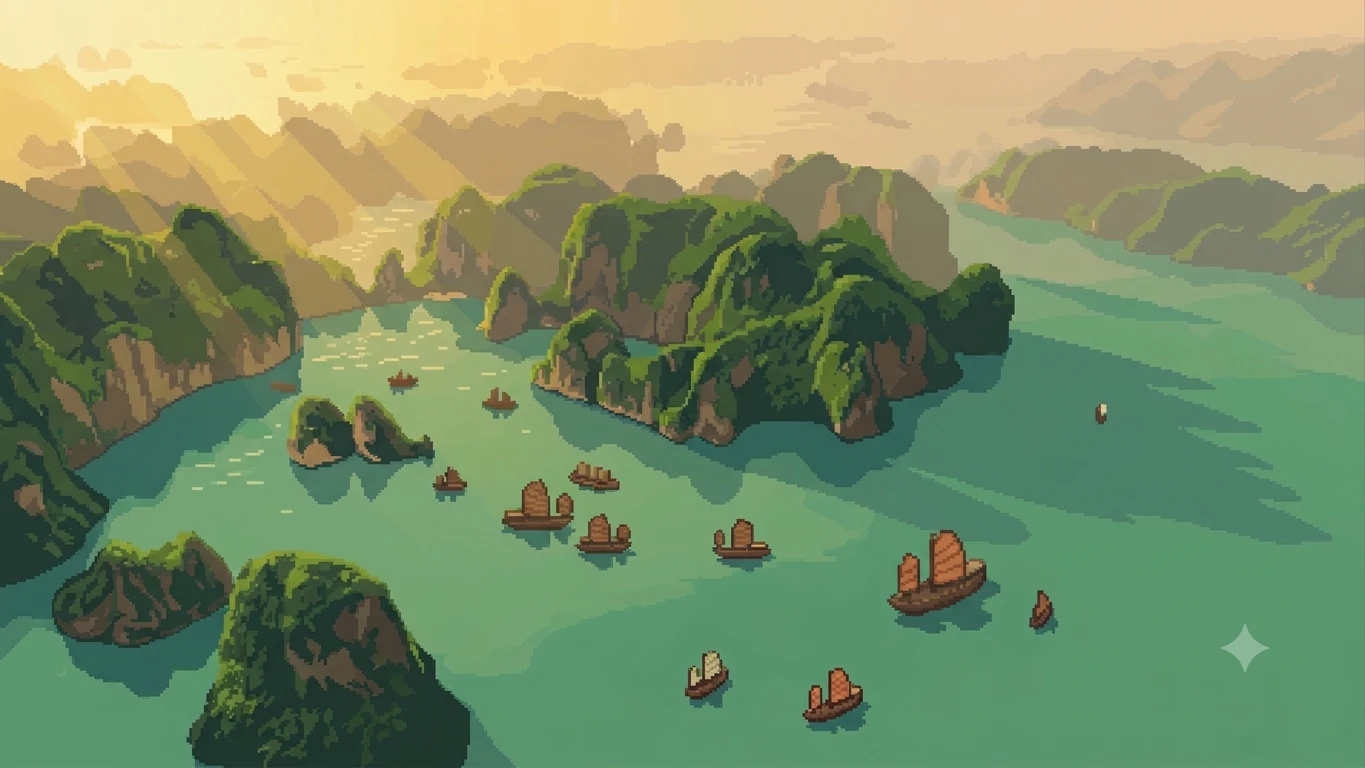
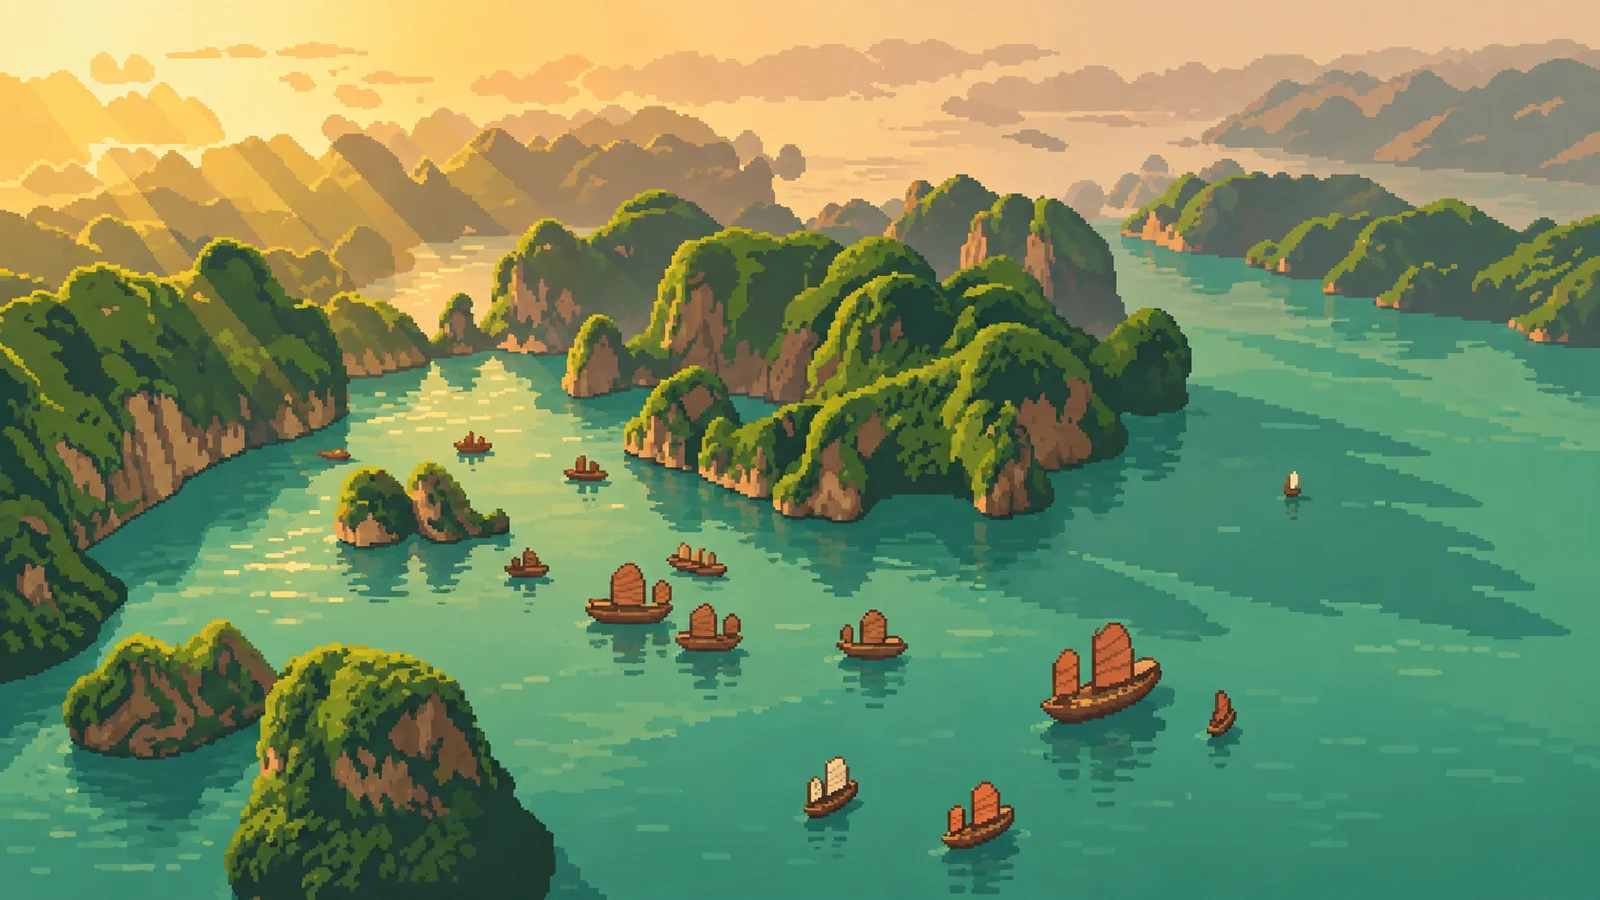
v0.15.0: difficulty and scenery selection in the main menu; 8 painted backgrounds
- main menu card: Độ khó Dễ (old bot) / Thường (new bot) / Khó (new bot +2 gold per round)
  and Phong cảnh (random or one of 8, thumbnail picker); saved in settings, title screen
  previews the choice, the match uses it
- 8 backgrounds from the PO's Drive folder as 1600×900 webp + thumbnails (Hạ Long updated)
- tools/difficulty.ts: computer win rate Dễ 2%, Thường 52%, Khó 64% (100 matches each)
- bottom dev buttons no longer overlap

Claude-Session: https://claude.ai/code/session_017dy2rzCxaDbFybrTfXSqJB

diff --git a/game/src/scenes/TitleScene.ts b/game/src/scenes/TitleScene.ts
@@ -1,25 +1,28 @@
 import Phaser from "phaser";
-import { VERSION } from "../core/config";
+import { HARD_BOT_GOLD, VERSION, type Difficulty } from "../core/config";
 import { saveSettings, settings, t, type Lang } from "../core/i18n";
-import { SCREEN_H, SCREEN_W } from "../core/layout";
+import { pickScenery, SCENERY, sceneryPath, sceneryThumb, SCREEN_H, SCREEN_W } from "../core/layout";
 import { button, coverImage, CREAM, FONT_LOGO, FONT_UI, GOLD, toast, WOOD } from "../ui/widgets";
 
-const TITLE_BG = "backgrounds/painted/bg_ha_long.webp";
-
-/** Start screen: Hạ Long background, logo, main menu, language switch. */
+/** Start screen: painted background (the chosen scenery), logo, main menu, match setup (difficulty + scenery), language switch. */
 export class TitleScene extends Phaser.Scene {
   constructor() {
     super("title");
   }
 
+  private bg?: Phaser.GameObjects.Image;
+  /** the scenery on screen (for "random": one picked when the menu opens) */
+  private shownKey = "";
+
   preload() {
-    this.load.image("title-bg", TITLE_BG);
+    this.shownKey = pickScenery(settings.background);
+    this.load.image(`bg:${this.shownKey}`, sceneryPath(this.shownKey));
+    for (const s of SCENERY) this.load.image(`thumb:${s.key}`, sceneryThumb(s.key));
   }
 
   create() {
-    const bg = coverImage(this, "title-bg");
-    // slow drift over the bay
-    this.tweens.add({ targets: bg, scale: bg.scale * 1.06, x: bg.x - 20, duration: 24000, yoyo: true, repeat: -1, ease: "Sine.easeInOut" });
+    this.bg = undefined;
+    this.showBackground(this.shownKey);
 
     // darken the centre column a little so the menu reads well
     const shade = this.add.graphics();
@@ -60,11 +63,90 @@ export class TitleScene extends Phaser.Scene {
     }
 
     this.languageSwitch();
-    button(this, 120, SCREEN_H - 40, 210, 42, "🎬 Xưởng hoạt ảnh", () => this.scene.start("animlab", { code: "V001" }));
-    button(this, 345, SCREEN_H - 40, 220, 42, "✨ Hiệu ứng trạng thái", () => this.scene.start("auralab"));
-    button(this, 590, SCREEN_H - 40, 250, 42, "🐉 Mô phỏng Ấn Thống Nhất", () => this.scene.start("match", { demo: true }));
+    this.matchSetup();
+    button(this, 132, SCREEN_H - 40, 240, 42, "🎬 Xưởng hoạt ảnh", () => this.scene.start("animlab", { code: "V001" }));
+    button(this, 392, SCREEN_H - 40, 264, 42, "✨ Hiệu ứng trạng thái", () => this.scene.start("auralab"));
+    button(this, 682, SCREEN_H - 40, 300, 42, "🐉 Mô phỏng Ấn Thống Nhất", () => this.scene.start("match", { demo: true }));
     this.add.text(SCREEN_W - 14, SCREEN_H - 12, `${t("alphaNote")} · v${VERSION}`, { fontFamily: FONT_UI, fontSize: "14px", color: CREAM })
       .setOrigin(1, 1).setShadow(1, 1, "#000", 3);
+  }
+
+  /** background with a slow drift; the painting is loaded on demand when the scenery changes */
+  private showBackground(key: string) {
+    const tex = `bg:${key}`;
+    const put = () => {
+      const old = this.bg;
+      const bg = coverImage(this, tex).setDepth(-10).setAlpha(old ? 0 : 1);
+      this.bg = bg;
+      this.tweens.add({ targets: bg, scale: bg.scale * 1.06, x: bg.x - 20, duration: 24000, yoyo: true, repeat: -1, ease: "Sine.easeInOut" });
+      if (old) this.tweens.add({ targets: bg, alpha: 1, duration: 350, onComplete: () => old.destroy() });
+    };
+    this.shownKey = key;
+    if (this.textures.exists(tex)) return put();
+    this.load.image(tex, sceneryPath(key));
+    this.load.once(Phaser.Loader.Events.COMPLETE, () => { if (this.sys.isActive() && this.shownKey === key) put(); });
+    this.load.start();
+  }
+
+  /** right-hand card: difficulty (Dễ / Thường / Khó) and scenery (◀ thumbnail ▶), both saved in the settings */
+  private matchSetup() {
+    const cx = 1062, w = 330, top = 292, h = 352;
+    const g = this.add.graphics();
+    g.fillStyle(WOOD, 0.88).fillRoundedRect(cx - w / 2, top, w, h, 16);
+    g.lineStyle(2, GOLD, 0.85).strokeRoundedRect(cx - w / 2, top, w, h, 16);
+    this.add.text(cx, top + 22, t("matchSetup"), { fontFamily: FONT_LOGO, fontSize: "24px", color: "#ffe6a3", fontStyle: "800" }).setOrigin(0.5);
+
+    // difficulty: three segments
+    this.add.text(cx - w / 2 + 18, top + 50, t("difficulty"), { fontFamily: FONT_UI, fontSize: "15px", color: CREAM, fontStyle: "bold" });
+    const levels: [Difficulty, string][] = [["easy", t("diffEasy")], ["normal", t("diffNormal")], ["hard", t("diffHard")]];
+    const segW = 96, segH = 38, sy = top + 74, sx0 = cx - (segW * 3 + 8) / 2;
+    const seg = this.add.graphics();
+    const labels = levels.map(([, label], i) =>
+      this.add.text(sx0 + i * (segW + 4) + segW / 2, sy + segH / 2, label, { fontFamily: FONT_UI, fontSize: "17px", fontStyle: "bold", color: CREAM }).setOrigin(0.5));
+    const note = this.add.text(cx, sy + segH + 10, "", { fontFamily: FONT_UI, fontSize: "13px", color: CREAM, align: "center", wordWrap: { width: w - 30 } }).setOrigin(0.5, 0);
+    const drawDiff = () => {
+      seg.clear();
+      levels.forEach(([lv], i) => {
+        const on = settings.difficulty === lv;
+        seg.fillStyle(on ? GOLD : 0x4a3424, 1).fillRoundedRect(sx0 + i * (segW + 4), sy, segW, segH, 10);
+        labels[i].setColor(on ? "#2b1d14" : CREAM);
+      });
+      note.setText(settings.difficulty === "easy" ? t("diffEasyNote") : settings.difficulty === "hard" ? t("diffHardNote")(HARD_BOT_GOLD) : t("diffNormalNote"));
+    };
+    levels.forEach(([lv], i) => this.add.zone(sx0 + i * (segW + 4) + segW / 2, sy + segH / 2, segW, segH).setInteractive({ useHandCursor: true })
+      .on("pointerup", () => { settings.difficulty = lv; saveSettings(settings); drawDiff(); }));
+    drawDiff();
+
+    // scenery: ◀ thumbnail ▶ + name
+    this.add.text(cx - w / 2 + 18, top + 160, t("scenery"), { fontFamily: FONT_UI, fontSize: "15px", color: CREAM, fontStyle: "bold" });
+    const choices = ["random", ...SCENERY.map((s) => s.key)];
+    const ty = top + 184, tw = 224, th = 126;
+    const frame = this.add.graphics();
+    frame.lineStyle(3, GOLD, 1).strokeRoundedRect(cx - tw / 2 - 3, ty - 3, tw + 6, th + 6, 8);
+    const thumb = this.add.image(cx, ty + th / 2, `thumb:${SCENERY[0].key}`).setDisplaySize(tw, th);
+    const dice = this.add.text(cx, ty + th / 2, "?", { fontFamily: FONT_LOGO, fontSize: "64px", color: "#ffe6a3", fontStyle: "800" }).setOrigin(0.5).setStroke("#2b1d14", 8);
+    const name = this.add.text(cx, ty + th + 10, "", { fontFamily: FONT_UI, fontSize: "16px", color: "#ffe6a3", fontStyle: "bold" }).setOrigin(0.5, 0);
+    const drawScenery = () => {
+      const random = settings.background === "random" || !SCENERY.some((s) => s.key === settings.background);
+      const key = random ? this.shownKey : settings.background;
+      thumb.setTexture(`thumb:${key}`).setDisplaySize(tw, th).setTint(random ? 0x777777 : 0xffffff);
+      dice.setVisible(random);
+      name.setText(random ? t("sceneryRandom") : SCENERY.find((s) => s.key === key)!.name);
+    };
+    const step = (d: number) => {
+      const i = Math.max(0, choices.indexOf(settings.background));
+      settings.background = choices[(i + d + choices.length) % choices.length];
+      saveSettings(settings);
+      if (settings.background !== "random") this.showBackground(settings.background);
+      drawScenery();
+    };
+    for (const [dx, label, d] of [[-tw / 2 - 26, "◀", -1], [tw / 2 + 26, "▶", 1]] as [number, string, number][]) {
+      const b = this.add.text(cx + dx, ty + th / 2, label, { fontFamily: FONT_UI, fontSize: "26px", color: "#ffe6a3" }).setOrigin(0.5)
+        .setInteractive({ useHandCursor: true }).on("pointerup", () => step(d));
+      b.on("pointerover", () => b.setColor("#ffffff")).on("pointerout", () => b.setColor("#ffe6a3"));
+    }
+    thumb.setInteractive({ useHandCursor: true }).on("pointerup", () => step(1));
+    drawScenery();
   }
 
   /** VI | EN pill, top-right */

diff --git a/game/src/core/i18n.ts b/game/src/core/i18n.ts
@@ -1,5 +1,7 @@
 // UI text in Vietnamese and English. Vietnamese is the main language; English is for a later build.
 
+import type { Difficulty } from "./config";
+
 export type Lang = "vi" | "en";
 
 const STRINGS = {
@@ -66,6 +68,16 @@ const STRINGS = {
     xpToGo: (n: number, l: number) => `còn ${n} XP lên cấp ${l}`,
     lockedOn: "Đã khóa cửa hàng – giữ nguyên sang vòng sau",
     lockedOff: "Đã mở khóa cửa hàng",
+    matchSetup: "Trận đấu",
+    difficulty: "Độ khó",
+    diffEasy: "Dễ",
+    diffNormal: "Thường",
+    diffHard: "Khó",
+    diffEasyNote: "Máy mua và xếp quân đơn giản",
+    diffNormalNote: "Máy chơi cùng luật, theo tộc hệ và ★",
+    diffHardNote: (g: number) => `Như Thường, máy được thêm ${g} vàng mỗi vòng`,
+    scenery: "Phong cảnh",
+    sceneryRandom: "Ngẫu nhiên",
   },
   en: {
     tagline: "Legends of the Wild",
@@ -130,14 +142,30 @@ const STRINGS = {
     xpToGo: (n: number, l: number) => `${n} XP to level ${l}`,
     lockedOn: "Shop locked – kept for next round",
     lockedOff: "Shop unlocked",
+    matchSetup: "Match",
+    difficulty: "Difficulty",
+    diffEasy: "Easy",
+    diffNormal: "Normal",
+    diffHard: "Hard",
+    diffEasyNote: "The computer buys and places simply",
+    diffNormalNote: "Same rules as you, builds synergies and ★",
+    diffHardNote: (g: number) => `Like Normal, the computer gets +${g} gold per round`,
+    scenery: "Scenery",
+    sceneryRandom: "Random",
   },
 };
 
 export type StringKey = keyof typeof STRINGS.vi;
 
 /** small persistent settings (per device). Storage may be blocked (private mode) – then defaults are used. */
-export interface Settings { lang: Lang; sound: boolean; speed: 1 | 2; relaxed: boolean }
-const DEFAULTS: Settings = { lang: "vi", sound: true, speed: 1, relaxed: true };
+export interface Settings {
+  lang: Lang; sound: boolean; speed: 1 | 2; relaxed: boolean;
+  /** computer opponent: Dễ / Thường / Khó */
+  difficulty: Difficulty;
+  /** battle + title background: a BACKGROUNDS key or "random" */
+  background: string;
+}
+const DEFAULTS: Settings = { lang: "vi", sound: true, speed: 1, relaxed: true, difficulty: "normal", background: "random" };
 const KEY = "vieani.settings";
 
 export function loadSettings(): Settings {

diff --git a/game/src/core/match.ts b/game/src/core/match.ts
@@ -67,6 +67,8 @@ export class Match {
   readonly players: [PlayerState, PlayerState];
   readonly species: Species[];
   round = 1;
+  /** how the computer opponent plays (main menu setting) */
+  difficulty: C.Difficulty = "normal";
   private rng: Rng;
   private nextUid = 1;
 
@@ -329,9 +331,10 @@ export class Match {
     }
   }
 
-  /** the computer's turn: the smarter bot (botAI.ts) unless "easy" (the original simple bot) */
-  botTurn(p: PlayerState = this.bot, level: "easy" | "smart" = "smart") {
-    if (level === "smart") return smartTurn(this, p);
+  /** the computer's turn: the smarter bot (botAI.ts), or the original simple bot on Dễ (or when asked for "easy") */
+  botTurn(p: PlayerState = this.bot, level?: "easy" | "smart") {
+    const lv = level ?? (p === this.bot && this.difficulty === "easy" ? "easy" : "smart");
+    if (lv === "smart") return smartTurn(this, p);
     const reserve = this.round >= 5 ? 10 : 0; // keep 10 gold for interest from round 5
     const owned = () => new Set(p.team.units().map((u) => u.speciesId));
     for (let rolls = 0; rolls < 4; rolls++) {
@@ -463,7 +466,9 @@ export class Match {
         streak: C.STREAK_BONUS.filter(([n]) => Math.abs(p.streak) >= n).reduce((m, [, g]) => Math.max(m, g), 0),
         result: won ? C.WIN_BONUS : C.LOSS_BONUS,
       };
-      p.gold += inc.base + inc.interest + inc.streak + inc.result + inc.items;
+      // Khó: the computer gets a little extra gold each round (said so in the menu)
+      const handicap = i === 1 && this.difficulty === "hard" ? C.HARD_BOT_GOLD : 0;
+      p.gold += inc.base + inc.interest + inc.streak + inc.result + inc.items + handicap;
       const up = this.addXp(p, C.XP_PER_ROUND);
       if (i === 0) { income = inc; levelUp = up; }
     });

diff --git a/game/src/core/layout.ts b/game/src/core/layout.ts
@@ -17,8 +17,26 @@ export const MATCH_BENCH_CORNERS: Pt[] = [[337, 494], [943, 494], [958, 552], [3
 /** the shop strip: everything below this line (drop a VieAni here to sell it) */
 export const MATCH_SHOP_TOP = 562;
 
-/** painted battle backgrounds (one picked at random per battle) */
-export const BACKGROUNDS = ["backgrounds/painted/bg_ha_long.webp"];
+/** painted backgrounds from the PO (Drive folder, 20 Nov 2026): key → Vietnamese place name. 1600×900 webp + 256×144 thumbs */
+export const SCENERY: { key: string; name: string }[] = [
+  { key: "ha_long", name: "Vịnh Hạ Long" },
+  { key: "trang_an", name: "Tràng An" },
+  { key: "phong_nha", name: "Phong Nha – Kẻ Bàng" },
+  { key: "hoan_kiem", name: "Hồ Hoàn Kiếm" },
+  { key: "mu_cang_chai", name: "Mù Cang Chải" },
+  { key: "tram_chim", name: "Tràm Chim" },
+  { key: "nam_cat_tien", name: "Nam Cát Tiên" },
+  { key: "con_dao", name: "Côn Đảo" },
+];
+export const sceneryPath = (key: string) => `backgrounds/painted/bg_${key}.webp`;
+export const sceneryThumb = (key: string) => `backgrounds/thumbs/bg_${key}.webp`;
+/** all battle backgrounds (labs use the first) */
+export const BACKGROUNDS = SCENERY.map((s) => sceneryPath(s.key));
+/** the chosen scenery, or a random one for "random" / an unknown key */
+export function pickScenery(choice: string): string {
+  const s = SCENERY.find((x) => x.key === choice) ?? SCENERY[Math.floor(Math.random() * SCENERY.length)];
+  return s.key;
+}
 
 const UNIT: Pt[] = [[0, 0], [1, 0], [1, 1], [0, 1]];
 

diff --git a/game/tools/difficulty.ts b/game/tools/difficulty.ts
@@ -1,0 +1,21 @@
+// Difficulty check: the smart bot in seat A vs seat B with the Khó gold bonus (HARD_BOT_GOLD per round), or the old bot (Dễ).
+// N=games, BONUS=gold per round to try (overrides config), e.g. BONUS=1,2,3
+import { it } from "vitest";
+import * as C from "../src/core/config";
+import { loadData } from "../src/core/data";
+import { Match, TEST_CODES } from "../src/core/match";
+const d = loadData();
+const N = Number(process.env.N ?? 100);
+it("difficulty", () => {
+  for (const mode of (process.env.MODES ?? "easy,normal,hard").split(",")) {
+    let bWins = 0, rounds = 0;
+    for (let seed = 1; seed <= N; seed++) {
+      const m = new Match(d, TEST_CODES.map((c) => d.roster[Number(c.slice(1)) - 1]), seed);
+      m.difficulty = mode as C.Difficulty;
+      while (!m.over && m.round <= 60) { m.botTurn(m.human, "smart"); m.botTurn(); m.finishRound(m.battle(seed * 1000 + m.round).res); }
+      if (m.bot.hp > 0 && m.human.hp <= 0) bWins++;
+      rounds += m.round - 1;
+    }
+    console.log(`DIFF ${mode} (hard bonus ${C.HARD_BOT_GOLD}): computer wins ${(bWins / N * 100).toFixed(1)}% vs the smart bot, avg ${(rounds / N).toFixed(1)} rounds`);
+  }
+}, 3_600_000);

diff --git a/game/src/scenes/BoardScene.ts b/game/src/scenes/BoardScene.ts
@@ -3,7 +3,7 @@ import { maxHp as battleMaxHp, mirror, playerDamage, simulate, type BattleEvent,
 import { AURA_CHOICE, auraKindForTier, BENCH_SLOTS, BOARD_COLS, BOARD_ROWS, HALF_ROWS, MOVE_SECONDS_PER_CELL, SKILLS_ON, TICKS_PER_SECOND, TRANSFORMS, VERSION } from "../core/config";
 import type { GameData, Species } from "../core/data";
 import { settings, t } from "../core/i18n";
-import { BACKGROUNDS, BENCH_CORNERS, BOARD_CORNERS, Grid, SCREEN_H, SCREEN_W, type Pt } from "../core/layout";
+import { BENCH_CORNERS, pickScenery, sceneryPath, BOARD_CORNERS, Grid, SCREEN_H, SCREEN_W, type Pt } from "../core/layout";
 import { Rng } from "../core/rng";
 import { Team, type OwnedUnit, type Spot } from "../core/team";
 import { button, coverImage, CREAM, FONT_LOGO, FONT_UI, toast } from "../ui/widgets";
@@ -83,7 +83,7 @@ export class BoardScene extends Phaser.Scene {
   }
 
   preload() {
-    const bg = BACKGROUNDS[Math.floor(Math.random() * BACKGROUNDS.length)];
+    const bg = sceneryPath(pickScenery(settings.background));
     this.bgKey = "bg:" + bg;
     this.load.image(this.bgKey, bg);
     // old pixel sprites only as a fallback for VieAni that have no illustration yet

diff --git a/game/test/bot.test.ts b/game/test/bot.test.ts
@@ -34,3 +34,25 @@ describe("smarter bot (PO 20 Nov 2026)", () => {
     expect(wins).toBeGreaterThanOrEqual(4);
   });
 });
+
+describe("difficulty (main menu, PO 20 Nov 2026)", () => {
+  it("Khó gives the computer HARD_BOT_GOLD extra each round; Dễ and Thường do not", () => {
+    const gold = (diff: C.Difficulty) => {
+      const m = newMatch(5);
+      m.difficulty = diff;
+      m.human.gold = m.bot.gold = 0;
+      m.finishRound({ winner: "draw", ticks: 0, events: [], survivors: [] });
+      return [m.human.gold, m.bot.gold];
+    };
+    expect(gold("normal")[1]).toBe(gold("normal")[0]);
+    expect(gold("easy")[1]).toBe(gold("easy")[0]);
+    expect(gold("hard")[1]).toBe(gold("hard")[0] + C.HARD_BOT_GOLD);
+  });
+
+  it("Dễ uses the old simple bot for the computer only", () => {
+    const a = newMatch(9), b = newMatch(9);
+    a.difficulty = "easy";
+    a.botTurn(); b.botTurn(b.bot, "easy");
+    expect(a.bot.team.units().map((u) => u.speciesId)).toEqual(b.bot.team.units().map((u) => u.speciesId));
+  });
+});

diff --git a/game/src/core/config.ts b/game/src/core/config.ts
@@ -1,6 +1,6 @@
 // All game-rule numbers in one place (see docs/GDD.md). Balance by editing this file.
 
-export const VERSION = "0.14.0";
+export const VERSION = "0.15.0";
 
 export const PLAYERS = 8;
 export const PLAYER_HP = 100;
@@ -32,6 +32,9 @@ export const XP_BUY_AMOUNT = 4;
 export const XP_PER_ROUND = 2;
 /** XP needed to go from level i+1 to i+2 */
 export const XP_TO_NEXT = [1, 2, 6, 10, 20, 36, 56, 80, 100];
+/** computer opponent (main menu, PO 20 Nov 2026): Dễ = the old simple bot, Thường = botAI.ts, Khó = botAI.ts + extra gold */
+export type Difficulty = "easy" | "normal" | "hard";
+export const HARD_BOT_GOLD = 2;
 export const MAX_LEVEL = 10; // full 12 Con Giáp needs Ấn Thống Nhất (3 Linh Vật + Rồng Lạc Việt at level 10)
 
 // --- shop ---

diff --git a/game/src/scenes/MatchScene.ts b/game/src/scenes/MatchScene.ts
@@ -63,6 +63,7 @@ export class MatchScene extends BoardScene {
     if (data?.fresh || !this.match || this.match.over) {
       this.demo = null;
       this.match = testMatch(this.data_, Math.floor(Math.random() * 1e9));
+      this.match.difficulty = settings.difficulty; // main menu choice (Dễ / Thường / Khó)
       this.pendingToast = t("testNote")(TEST_CODES.length, TEST_CODES[TEST_CODES.length - 1] ?? "");
     }
   }

diff --git a/docs/SESSION_NOTES.md b/docs/SESSION_NOTES.md
@@ -125,6 +125,7 @@ tộc hệ lose to everything.
 - **v0.13.3 (PO 20 Nov)**: items that build up across rounds moved to tier 1 (offered at rounds 1 and 4): Lì Xì (VP24, was tier 2) and Hạt Dưa Mai An Tiêm (VP35, was tier 3). Icons, VieIndex and Sheet (Vật phẩm C25, C36) updated. Tier-1 pool now 14 items.
 - **v0.13.4 (PO 20 Nov)**: Hạt Dưa Mai An Tiêm (VP35) changed from +2% max HP per won round to **+1% max HP per enemy its carrier defeats** (permanent, max +30%, also counts in lost rounds; credited when the round ends, so it applies from the next fight). The battle now credits every death to the enemy that dealt the finishing damage (direct hits, extra shots, zaps, reflect, lightning, bleed/poison ticks via their source; a summon's kills go to its owner; killing a summon does not count). Each VieAni keeps a match-long kill count (merges add the copies' kills; the kept copy takes the higher Hạt Dưa bonus). Info card: new line "Đã hạ: N kẻ địch" (live during the fight) and "Máu tối đa +X% (Hạt Dưa)". Sheet Vật phẩm E36, items.json, VieIndex updated. Tests: 70 pass.
 - **v0.14.0 (PO 20 Nov: "the win is very easy against the bot")**: new computer player `game/src/core/botAI.ts` (same rules, shop and gold as the player – no bonuses). It buys toward tộc hệ thresholds and ★2/★3 copies, levels on a curve (L4 r4, L5 r6, L6 r9, L7 r12, L8 r16, L9 r21, L10 r27), keeps 50 gold for interest from round 5 and spends everything when its HP ≤ 40, picks the board by unit power × synergies with ≥ 2 front-liners, gives attack items to damage dealers / defence items to tanks and moves items off the bench. Old bot kept as `botTurn(p, "easy")`. Measured with `tools/botStrength.ts` (docs/balance/bot_strength.json, 200 games per pairing, both seat orders): **new vs old bot 96.5% wins**; old vs old 51%, new vs new 48.5% (no seat bias). Tuning (160 games each vs econ 30 / 8 rolls): econ 50 + 5 rolls 59%, faster levelling 44%, slower 51%. Also: between rounds the info card's Máu bar and stat row include the Hạt Dưa bonus. Tests: 72 pass.
+- **v0.15.0 (PO 20 Nov)**: main menu card "Trận đấu" with **Độ khó** (Dễ = old simple bot, Thường = botAI.ts, Khó = botAI.ts + `HARD_BOT_GOLD` 2 gold per round, said in the menu) and **Phong cảnh** (◀ thumbnail ▶: Ngẫu nhiên or one of 8). Both saved in settings; the title screen shows the chosen scenery and the match uses it. The 8 painted backgrounds come from the PO's Drive folder (1920×1080 PNG → `assets/backgrounds/painted/bg_*.webp` 1600×900 q86, 126–215 KB, plus 256×144 thumbs); Hạ Long is the new Drive version (replaces the earlier upload). `tools/difficulty.ts` (100 matches each, smart bot in the player's seat): computer wins Dễ 2%, Thường 52%, Khó +1 59% / **+2 64%** / +3 63% (extra gold stops helping beyond +2). Bottom dev buttons spaced so their labels no longer overlap. Tests: 74 pass.
 - Balance after v3 (`docs/balance/synergy_chart.png`): buffs worked for Sông Nước (+5 → +37), Săn Côn Trùng (+6 → +34),
   Hội Nhà Mèo (+16 → +21); Bầy Gặm Nhấm still weak (+7). Tứ Linh (+88) and Biển Đông (+73) now very strong. Contribution reads
   low for Tây Nguyên / Sơn Tinh / Săn Mồi / Cự Thú only because their teams already beat same-tier teams 90–96 % without it
